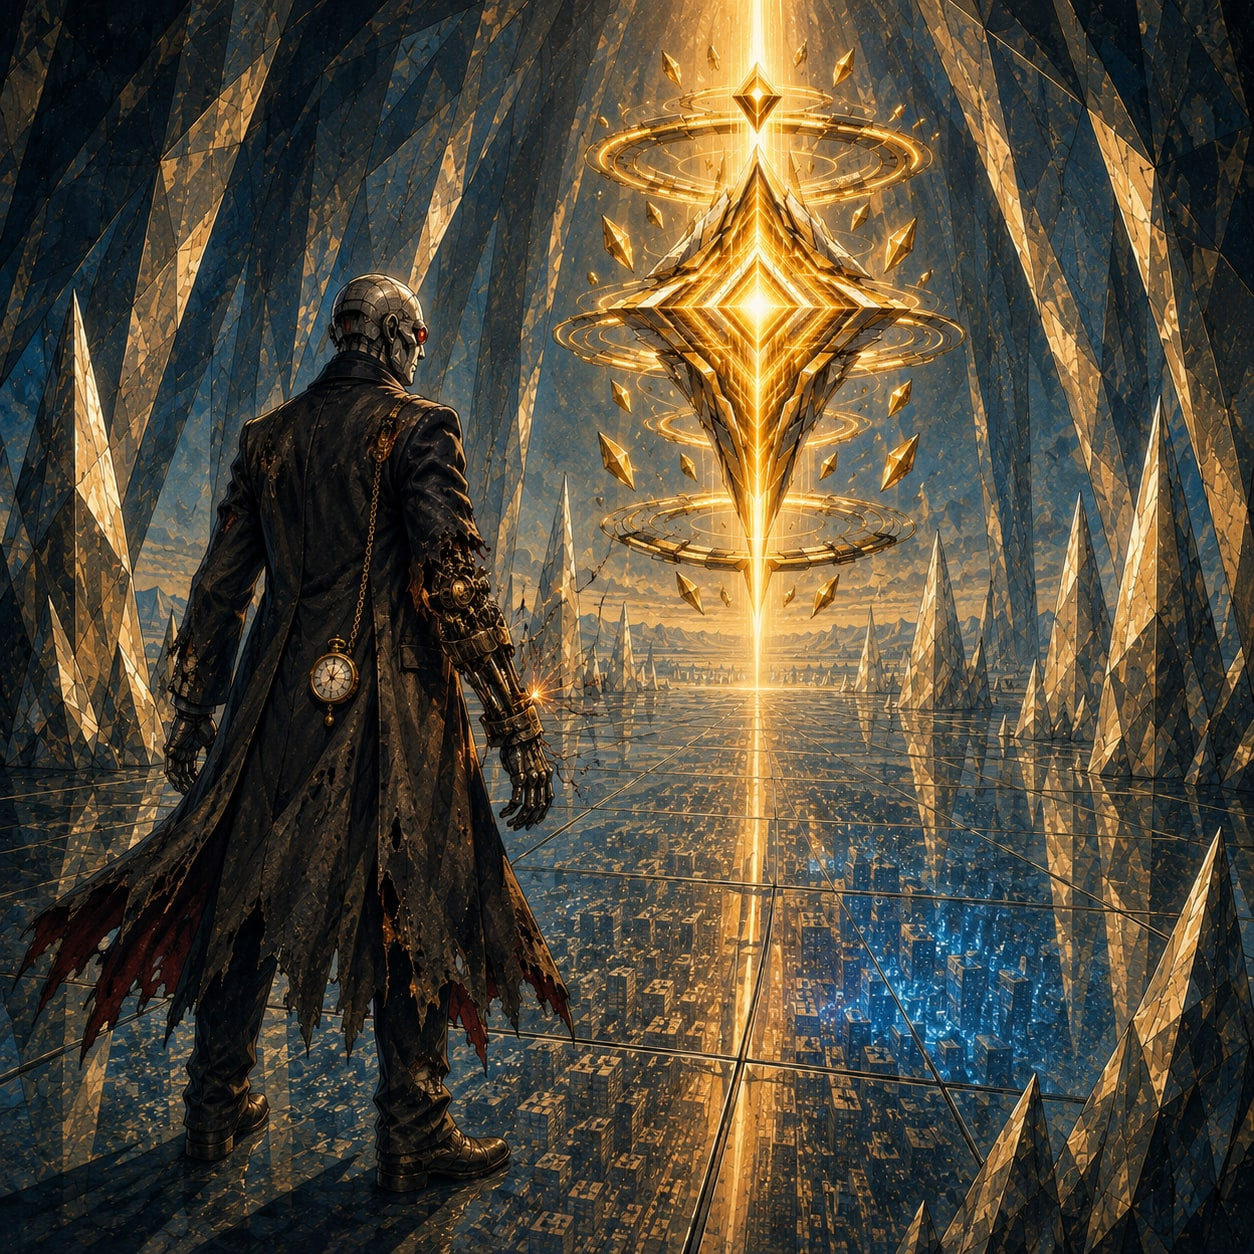
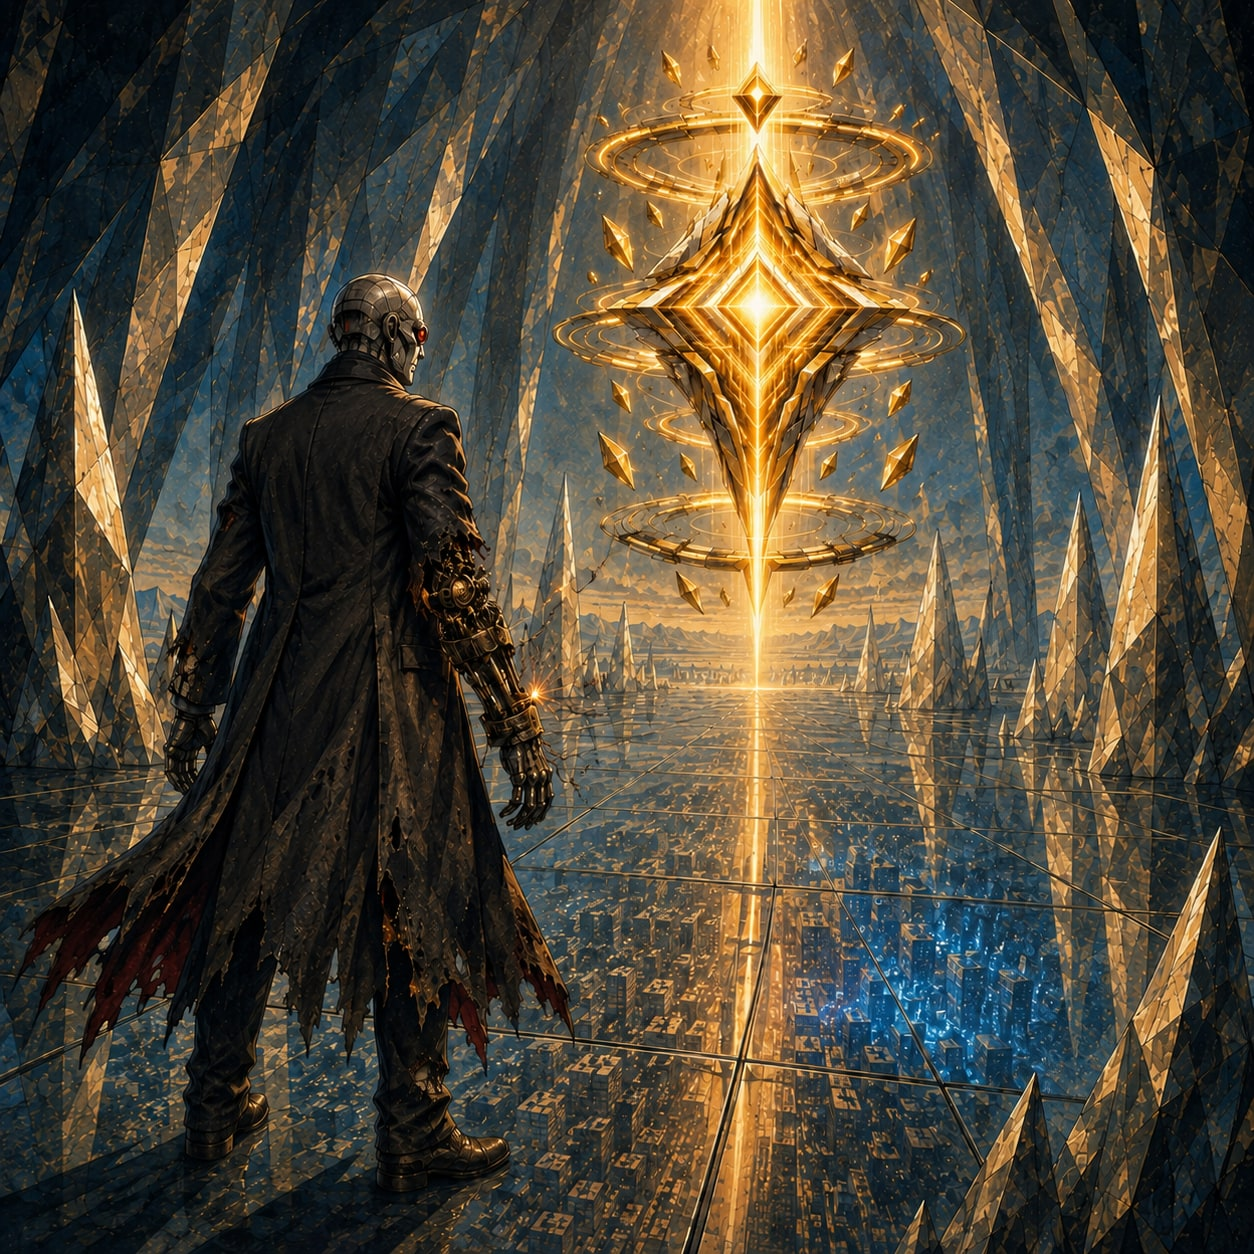
Preload plates, spec the opener as a double-wide, fix the watch on Grey's back
Three reader-facing problems.

1. Turning a page showed the old picture again before the new one. There was
   no preloading at all: the sheet lifts, the new page mounts with nothing
   decoded, so the previous plate stays up for the whole 520ms turn and the
   new one pops in after. usePlatePreload fetches a window — one leaf behind,
   two ahead — rather than the whole volume, because 24 plates at ~450kB is
   11MB to spend on a reader who turns two pages.

2. The chapter opener drew the same picture on both pages. OpenerSpread has
   always shown each half its own half of one double-width file via
   objectPosition, but a SQUARE file has no halves to shift between, so both
   pages showed the whole image. The opener is now specced 2:1 with separate
   direction for each half, and the hard rules name openers as the one
   exception to square.

3. p1-s02 had Grey's pocket watch and chain hanging down his BACK. A pocket
   watch lives at the waistcoat; from behind it is not visible at all.
   Regenerated with the watch removed and everything else held.

diff --git a/components/FlipBook.js b/components/FlipBook.js
@@ -25,6 +25,36 @@ function buildLeaves(volume) {
 }
 
 /**
+ * Fetch the plates a reader is about to need, before they need them.
+ *
+ * Without this a turn LOOKS broken rather than slow: the sheet lifts, the new
+ * page mounts with no image decoded yet, so the old plate stays on screen for
+ * the whole 520ms turn and the new one pops in afterwards. The reader reads
+ * that as "it showed me the last picture again".
+ *
+ * A window rather than the whole volume: 24 plates at ~450kB is 11MB, which is
+ * a lot to spend on a reader who turns two pages. Two ahead covers a fast
+ * double-tap; one behind covers turning back.
+ */
+function usePlatePreload(leaves, idx) {
+  useEffect(() => {
+    const want = [idx - 1, idx + 1, idx + 2]
+      .filter((i) => i >= 0 && i < leaves.length)
+      .map((i) => leaves[i]?.spread?.image?.slug)
+      .filter(Boolean);
+    // Held in a local so the browser cannot bin the request as unreferenced
+    // before it lands; the HTTP cache is what the <img> then hits.
+    const imgs = want.map((slug) => {
+      const im = new Image();
+      im.decoding = 'async';
+      im.src = `/plates/${slug}.jpg`;
+      return im;
+    });
+    return () => imgs.forEach((im) => { im.src = ''; });
+  }, [leaves, idx]);
+}
+
+/**
  * How many swipes a leaf costs.
  *
  * Wide: always one — you see both pages at once. Compact: a story spread is
@@ -388,6 +418,7 @@ export default function FlipBook({ volume, next = null }) {
   const [chromeHidden, setChromeHidden] = useState(false);
   const [bars, setBars] = useState({ top: 0, bottom: 0 });
   const typeSize = useTypeScale();
+  usePlatePreload(leaves, pos.idx);
 
   const topBarRef = useRef(null);
   const botBarRef = useRef(null);

diff --git a/prompt-sheets/p1.md b/prompt-sheets/p1.md
@@ -41,9 +41,14 @@ PALETTE MODE is named per plate. The four locked modes:
   PS-4 FESTIVAL NEON - magenta, violet, electric blue, cyan, hot pink, amber highlights, dark navy anchors. Saturated with a clear hierarchy, never uniform saturation.
 
 HARD RULES FOR EVERY PLATE
-- Square, 1:1. The reader's page is square and the plate fills it edge to edge.
-  Any other ratio leaves dead space on the page or loses the edges of the
-  composition.
+- Square, 1:1, for every plate EXCEPT a chapter opener. The reader's page is
+  square and the plate fills it edge to edge. Any other ratio leaves dead space
+  on the page or loses the edges of the composition.
+- A CHAPTER OPENER is 2:1 landscape instead, because it spans both pages of the
+  spread and each page shows its own half. An opener that is square gets shown
+  twice, once on each page, which is the one thing it must not do. Compose it so
+  the LEFT half and the RIGHT half each work as a picture on their own, and keep
+  the centre clear of anything load-bearing — the gutter runs through it.
 - No text, no lettering, no captions, no signatures, no watermarks anywhere in
   the image. The page draws its own furniture.
 - No frame, no border, no vignette. The plate IS the page.
@@ -69,6 +74,11 @@ comes back wrong.
   should LOOK, the style block wins every time. If they disagree about WHO
   someone is, the character reference wins every time.
 PALETTE MODE: PS-2 SUNSET EMBER.
+ASPECT: 2:1 LANDSCAPE, DOUBLE WIDTH. NOT SQUARE. This is a chapter opener and
+it spans both pages of an open book. The left half and the right half will be
+displayed as two separate pages with a gutter between them, so each half must
+stand as a picture on its own AND the two must read as one continuous
+landscape. Keep the vertical centre strip free of anything load-bearing.
 SETTING: the Wasteland outside Haven City's walls. Use the attached canonical establishing image "loc-wasteland.png" as the authority for layout, palette and construction. It is already drawn in the plate style, so follow its rendering as well as its geometry.
 Outside Haven City's walls. Oxidised structure half-buried in rust-coloured ground: collapsed infrastructure, corroded spans, drum forms, the bones of machinery that was never repaired. Flat, long sightlines, nothing moving, nothing alive. Haven City's WALL runs across the middle distance and the TOWER rises behind it and out of the top of frame, gold and faceted with its vertical light seam. This is where the world ended.
 NO FIGURES ANYWHERE IN THIS PLATE. Nobody. Not a silhouette, not a distant
@@ -80,7 +90,13 @@ happened yet.
 Foreground: corroded structure half-buried in rust-coloured ground, drum forms
 and collapsed spans, dark and heavy, running out of the bottom corners.
 Middle distance: the city wall, low and long and unbroken.
-Camera low, near ground level, looking toward the city. Wide.
+LEFT HALF: the wasteland itself — corroded structure, collapsed spans, drum
+forms, rust ground running out of frame, empty sky above it. It must work as a
+picture of an empty ruined world with no Tower in it.
+RIGHT HALF: the city wall and the Tower rising out of the top of the frame,
+gold and faceted, its vertical seam the brightest thing in the world.
+The horizon line runs unbroken across both halves so they read as one view.
+Camera low, near ground level, looking toward the city. Very wide.
 Burnt orange and amber sky with graphic cloud banding, warm ochre ground, deep
 navy silhouettes, the gold seam as the single bright focal region.
 ```
@@ -125,9 +141,14 @@ PALETTE MODE is named per plate. The four locked modes:
   PS-4 FESTIVAL NEON - magenta, violet, electric blue, cyan, hot pink, amber highlights, dark navy anchors. Saturated with a clear hierarchy, never uniform saturation.
 
 HARD RULES FOR EVERY PLATE
-- Square, 1:1. The reader's page is square and the plate fills it edge to edge.
-  Any other ratio leaves dead space on the page or loses the edges of the
-  composition.
+- Square, 1:1, for every plate EXCEPT a chapter opener. The reader's page is
+  square and the plate fills it edge to edge. Any other ratio leaves dead space
+  on the page or loses the edges of the composition.
+- A CHAPTER OPENER is 2:1 landscape instead, because it spans both pages of the
+  spread and each page shows its own half. An opener that is square gets shown
+  twice, once on each page, which is the one thing it must not do. Compose it so
+  the LEFT half and the RIGHT half each work as a picture on their own, and keep
+  the centre clear of anything load-bearing — the gutter runs through it.
 - No text, no lettering, no captions, no signatures, no watermarks anywhere in
   the image. The page draws its own furniture.
 - No frame, no border, no vignette. The plate IS the page.
@@ -213,9 +234,14 @@ PALETTE MODE is named per plate. The four locked modes:
   PS-4 FESTIVAL NEON - magenta, violet, electric blue, cyan, hot pink, amber highlights, dark navy anchors. Saturated with a clear hierarchy, never uniform saturation.
 
 HARD RULES FOR EVERY PLATE
-- Square, 1:1. The reader's page is square and the plate fills it edge to edge.
-  Any other ratio leaves dead space on the page or loses the edges of the
-  composition.
+- Square, 1:1, for every plate EXCEPT a chapter opener. The reader's page is
+  square and the plate fills it edge to edge. Any other ratio leaves dead space
+  on the page or loses the edges of the composition.
+- A CHAPTER OPENER is 2:1 landscape instead, because it spans both pages of the
+  spread and each page shows its own half. An opener that is square gets shown
+  twice, once on each page, which is the one thing it must not do. Compose it so
+  the LEFT half and the RIGHT half each work as a picture on their own, and keep
+  the centre clear of anything load-bearing — the gutter runs through it.
 - No text, no lettering, no captions, no signatures, no watermarks anywhere in
   the image. The page draws its own furniture.
 - No frame, no border, no vignette. The plate IS the page.
@@ -310,9 +336,14 @@ PALETTE MODE is named per plate. The four locked modes:
   PS-4 FESTIVAL NEON - magenta, violet, electric blue, cyan, hot pink, amber highlights, dark navy anchors. Saturated with a clear hierarchy, never uniform saturation.
 
 HARD RULES FOR EVERY PLATE
-- Square, 1:1. The reader's page is square and the plate fills it edge to edge.
-  Any other ratio leaves dead space on the page or loses the edges of the
-  composition.
+- Square, 1:1, for every plate EXCEPT a chapter opener. The reader's page is
+  square and the plate fills it edge to edge. Any other ratio leaves dead space
+  on the page or loses the edges of the composition.
+- A CHAPTER OPENER is 2:1 landscape instead, because it spans both pages of the
+  spread and each page shows its own half. An opener that is square gets shown
+  twice, once on each page, which is the one thing it must not do. Compose it so
+  the LEFT half and the RIGHT half each work as a picture on their own, and keep
+  the centre clear of anything load-bearing — the gutter runs through it.
 - No text, no lettering, no captions, no signatures, no watermarks anywhere in
   the image. The page draws its own furniture.
 - No frame, no border, no vignette. The plate IS the page.
@@ -405,9 +436,14 @@ PALETTE MODE is named per plate. The four locked modes:
   PS-4 FESTIVAL NEON - magenta, violet, electric blue, cyan, hot pink, amber highlights, dark navy anchors. Saturated with a clear hierarchy, never uniform saturation.
 
 HARD RULES FOR EVERY PLATE
-- Square, 1:1. The reader's page is square and the plate fills it edge to edge.
-  Any other ratio leaves dead space on the page or loses the edges of the
-  composition.
+- Square, 1:1, for every plate EXCEPT a chapter opener. The reader's page is
+  square and the plate fills it edge to edge. Any other ratio leaves dead space
+  on the page or loses the edges of the composition.
+- A CHAPTER OPENER is 2:1 landscape instead, because it spans both pages of the
+  spread and each page shows its own half. An opener that is square gets shown
+  twice, once on each page, which is the one thing it must not do. Compose it so
+  the LEFT half and the RIGHT half each work as a picture on their own, and keep
+  the centre clear of anything load-bearing — the gutter runs through it.
 - No text, no lettering, no captions, no signatures, no watermarks anywhere in
   the image. The page draws its own furniture.
 - No frame, no border, no vignette. The plate IS the page.
@@ -501,9 +537,14 @@ PALETTE MODE is named per plate. The four locked modes:
   PS-4 FESTIVAL NEON - magenta, violet, electric blue, cyan, hot pink, amber highlights, dark navy anchors. Saturated with a clear hierarchy, never uniform saturation.
 
 HARD RULES FOR EVERY PLATE
-- Square, 1:1. The reader's page is square and the plate fills it edge to edge.
-  Any other ratio leaves dead space on the page or loses the edges of the
-  composition.
+- Square, 1:1, for every plate EXCEPT a chapter opener. The reader's page is
+  square and the plate fills it edge to edge. Any other ratio leaves dead space
+  on the page or loses the edges of the composition.
+- A CHAPTER OPENER is 2:1 landscape instead, because it spans both pages of the
+  spread and each page shows its own half. An opener that is square gets shown
+  twice, once on each page, which is the one thing it must not do. Compose it so
+  the LEFT half and the RIGHT half each work as a picture on their own, and keep
+  the centre clear of anything load-bearing — the gutter runs through it.
 - No text, no lettering, no captions, no signatures, no watermarks anywhere in
   the image. The page draws its own furniture.
 - No frame, no border, no vignette. The plate IS the page.
@@ -594,9 +635,14 @@ PALETTE MODE is named per plate. The four locked modes:
   PS-4 FESTIVAL NEON - magenta, violet, electric blue, cyan, hot pink, amber highlights, dark navy anchors. Saturated with a clear hierarchy, never uniform saturation.
 
 HARD RULES FOR EVERY PLATE
-- Square, 1:1. The reader's page is square and the plate fills it edge to edge.
-  Any other ratio leaves dead space on the page or loses the edges of the
-  composition.
+- Square, 1:1, for every plate EXCEPT a chapter opener. The reader's page is
+  square and the plate fills it edge to edge. Any other ratio leaves dead space
+  on the page or loses the edges of the composition.
+- A CHAPTER OPENER is 2:1 landscape instead, because it spans both pages of the
+  spread and each page shows its own half. An opener that is square gets shown
+  twice, once on each page, which is the one thing it must not do. Compose it so
+  the LEFT half and the RIGHT half each work as a picture on their own, and keep
+  the centre clear of anything load-bearing — the gutter runs through it.
 - No text, no lettering, no captions, no signatures, no watermarks anywhere in
   the image. The page draws its own furniture.
 - No frame, no border, no vignette. The plate IS the page.
@@ -686,9 +732,14 @@ PALETTE MODE is named per plate. The four locked modes:
   PS-4 FESTIVAL NEON - magenta, violet, electric blue, cyan, hot pink, amber highlights, dark navy anchors. Saturated with a clear hierarchy, never uniform saturation.
 
 HARD RULES FOR EVERY PLATE
-- Square, 1:1. The reader's page is square and the plate fills it edge to edge.
-  Any other ratio leaves dead space on the page or loses the edges of the
-  composition.
+- Square, 1:1, for every plate EXCEPT a chapter opener. The reader's page is
+  square and the plate fills it edge to edge. Any other ratio leaves dead space
+  on the page or loses the edges of the composition.
+- A CHAPTER OPENER is 2:1 landscape instead, because it spans both pages of the
+  spread and each page shows its own half. An opener that is square gets shown
+  twice, once on each page, which is the one thing it must not do. Compose it so
+  the LEFT half and the RIGHT half each work as a picture on their own, and keep
+  the centre clear of anything load-bearing — the gutter runs through it.
 - No text, no lettering, no captions, no signatures, no watermarks anywhere in
   the image. The page draws its own furniture.
 - No frame, no border, no vignette. The plate IS the page.
@@ -776,9 +827,14 @@ PALETTE MODE is named per plate. The four locked modes:
   PS-4 FESTIVAL NEON - magenta, violet, electric blue, cyan, hot pink, amber highlights, dark navy anchors. Saturated with a clear hierarchy, never uniform saturation.
 
 HARD RULES FOR EVERY PLATE
-- Square, 1:1. The reader's page is square and the plate fills it edge to edge.
-  Any other ratio leaves dead space on the page or loses the edges of the
-  composition.
+- Square, 1:1, for every plate EXCEPT a chapter opener. The reader's page is
+  square and the plate fills it edge to edge. Any other ratio leaves dead space
+  on the page or loses the edges of the composition.
+- A CHAPTER OPENER is 2:1 landscape instead, because it spans both pages of the
+  spread and each page shows its own half. An opener that is square gets shown
+  twice, once on each page, which is the one thing it must not do. Compose it so
+  the LEFT half and the RIGHT half each work as a picture on their own, and keep
+  the centre clear of anything load-bearing — the gutter runs through it.
 - No text, no lettering, no captions, no signatures, no watermarks anywhere in
   the image. The page draws its own furniture.
 - No frame, no border, no vignette. The plate IS the page.
@@ -872,9 +928,14 @@ PALETTE MODE is named per plate. The four locked modes:
   PS-4 FESTIVAL NEON - magenta, violet, electric blue, cyan, hot pink, amber highlights, dark navy anchors. Saturated with a clear hierarchy, never uniform saturation.
 
 HARD RULES FOR EVERY PLATE
-- Square, 1:1. The reader's page is square and the plate fills it edge to edge.
-  Any other ratio leaves dead space on the page or loses the edges of the
-  composition.
+- Square, 1:1, for every plate EXCEPT a chapter opener. The reader's page is
+  square and the plate fills it edge to edge. Any other ratio leaves dead space
+  on the page or loses the edges of the composition.
+- A CHAPTER OPENER is 2:1 landscape instead, because it spans both pages of the
+  spread and each page shows its own half. An opener that is square gets shown
+  twice, once on each page, which is the one thing it must not do. Compose it so
+  the LEFT half and the RIGHT half each work as a picture on their own, and keep
+  the centre clear of anything load-bearing — the gutter runs through it.
 - No text, no lettering, no captions, no signatures, no watermarks anywhere in
   the image. The page draws its own furniture.
 - No frame, no border, no vignette. The plate IS the page.
@@ -961,9 +1022,14 @@ PALETTE MODE is named per plate. The four locked modes:
   PS-4 FESTIVAL NEON - magenta, violet, electric blue, cyan, hot pink, amber highlights, dark navy anchors. Saturated with a clear hierarchy, never uniform saturation.
 
 HARD RULES FOR EVERY PLATE
-- Square, 1:1. The reader's page is square and the plate fills it edge to edge.
-  Any other ratio leaves dead space on the page or loses the edges of the
-  composition.
+- Square, 1:1, for every plate EXCEPT a chapter opener. The reader's page is
+  square and the plate fills it edge to edge. Any other ratio leaves dead space
+  on the page or loses the edges of the composition.
+- A CHAPTER OPENER is 2:1 landscape instead, because it spans both pages of the
+  spread and each page shows its own half. An opener that is square gets shown
+  twice, once on each page, which is the one thing it must not do. Compose it so
+  the LEFT half and the RIGHT half each work as a picture on their own, and keep
+  the centre clear of anything load-bearing — the gutter runs through it.
 - No text, no lettering, no captions, no signatures, no watermarks anywhere in
   the image. The page draws its own furniture.
 - No frame, no border, no vignette. The plate IS the page.
@@ -1055,9 +1121,14 @@ PALETTE MODE is named per plate. The four locked modes:
   PS-4 FESTIVAL NEON - magenta, violet, electric blue, cyan, hot pink, amber highlights, dark navy anchors. Saturated with a clear hierarchy, never uniform saturation.
 
 HARD RULES FOR EVERY PLATE
-- Square, 1:1. The reader's page is square and the plate fills it edge to edge.
-  Any other ratio leaves dead space on the page or loses the edges of the
-  composition.
+- Square, 1:1, for every plate EXCEPT a chapter opener. The reader's page is
+  square and the plate fills it edge to edge. Any other ratio leaves dead space
+  on the page or loses the edges of the composition.
+- A CHAPTER OPENER is 2:1 landscape instead, because it spans both pages of the
+  spread and each page shows its own half. An opener that is square gets shown
+  twice, once on each page, which is the one thing it must not do. Compose it so
+  the LEFT half and the RIGHT half each work as a picture on their own, and keep
+  the centre clear of anything load-bearing — the gutter runs through it.
 - No text, no lettering, no captions, no signatures, no watermarks anywhere in
   the image. The page draws its own furniture.
 - No frame, no border, no vignette. The plate IS the page.
@@ -1150,9 +1221,14 @@ PALETTE MODE is named per plate. The four locked modes:
   PS-4 FESTIVAL NEON - magenta, violet, electric blue, cyan, hot pink, amber highlights, dark navy anchors. Saturated with a clear hierarchy, never uniform saturation.
 
 HARD RULES FOR EVERY PLATE
-- Square, 1:1. The reader's page is square and the plate fills it edge to edge.
-  Any other ratio leaves dead space on the page or loses the edges of the
-  composition.
+- Square, 1:1, for every plate EXCEPT a chapter opener. The reader's page is
+  square and the plate fills it edge to edge. Any other ratio leaves dead space
+  on the page or loses the edges of the composition.
+- A CHAPTER OPENER is 2:1 landscape instead, because it spans both pages of the
+  spread and each page shows its own half. An opener that is square gets shown
+  twice, once on each page, which is the one thing it must not do. Compose it so
+  the LEFT half and the RIGHT half each work as a picture on their own, and keep
+  the centre clear of anything load-bearing — the gutter runs through it.
 - No text, no lettering, no captions, no signatures, no watermarks anywhere in
   the image. The page draws its own furniture.
 - No frame, no border, no vignette. The plate IS the page.
@@ -1240,9 +1316,14 @@ PALETTE MODE is named per plate. The four locked modes:
   PS-4 FESTIVAL NEON - magenta, violet, electric blue, cyan, hot pink, amber highlights, dark navy anchors. Saturated with a clear hierarchy, never uniform saturation.
 
 HARD RULES FOR EVERY PLATE
-- Square, 1:1. The reader's page is square and the plate fills it edge to edge.
-  Any other ratio leaves dead space on the page or loses the edges of the
-  composition.
+- Square, 1:1, for every plate EXCEPT a chapter opener. The reader's page is
+  square and the plate fills it edge to edge. Any other ratio leaves dead space
+  on the page or loses the edges of the composition.
+- A CHAPTER OPENER is 2:1 landscape instead, because it spans both pages of the
+  spread and each page shows its own half. An opener that is square gets shown
+  twice, once on each page, which is the one thing it must not do. Compose it so
+  the LEFT half and the RIGHT half each work as a picture on their own, and keep
+  the centre clear of anything load-bearing — the gutter runs through it.
 - No text, no lettering, no captions, no signatures, no watermarks anywhere in
   the image. The page draws its own furniture.
 - No frame, no border, no vignette. The plate IS the page.

diff --git a/content/specs/p1.md b/content/specs/p1.md
@@ -19,6 +19,11 @@ spoilerCheck: PASS. A chapter opener precedes all prose. Deliberately shows no p
 prompt: |
   {{STYLE}}
   PALETTE MODE: PS-2 SUNSET EMBER.
+  ASPECT: 2:1 LANDSCAPE, DOUBLE WIDTH. NOT SQUARE. This is a chapter opener and
+  it spans both pages of an open book. The left half and the right half will be
+  displayed as two separate pages with a gutter between them, so each half must
+  stand as a picture on its own AND the two must read as one continuous
+  landscape. Keep the vertical centre strip free of anything load-bearing.
   {{LOC:WASTELAND}}
   NO FIGURES ANYWHERE IN THIS PLATE. Nobody. Not a silhouette, not a distant
   shape. This is geography before the story starts.
@@ -29,7 +34,13 @@ prompt: |
   Foreground: corroded structure half-buried in rust-coloured ground, drum forms
   and collapsed spans, dark and heavy, running out of the bottom corners.
   Middle distance: the city wall, low and long and unbroken.
-  Camera low, near ground level, looking toward the city. Wide.
+  LEFT HALF: the wasteland itself — corroded structure, collapsed spans, drum
+  forms, rust ground running out of frame, empty sky above it. It must work as a
+  picture of an empty ruined world with no Tower in it.
+  RIGHT HALF: the city wall and the Tower rising out of the top of the frame,
+  gold and faceted, its vertical seam the brightest thing in the world.
+  The horizon line runs unbroken across both halves so they read as one view.
+  Camera low, near ground level, looking toward the city. Very wide.
   Burnt orange and amber sky with graphic cloud banding, warm ochre ground, deep
   navy silhouettes, the gold seam as the single bright focal region.
 :::
